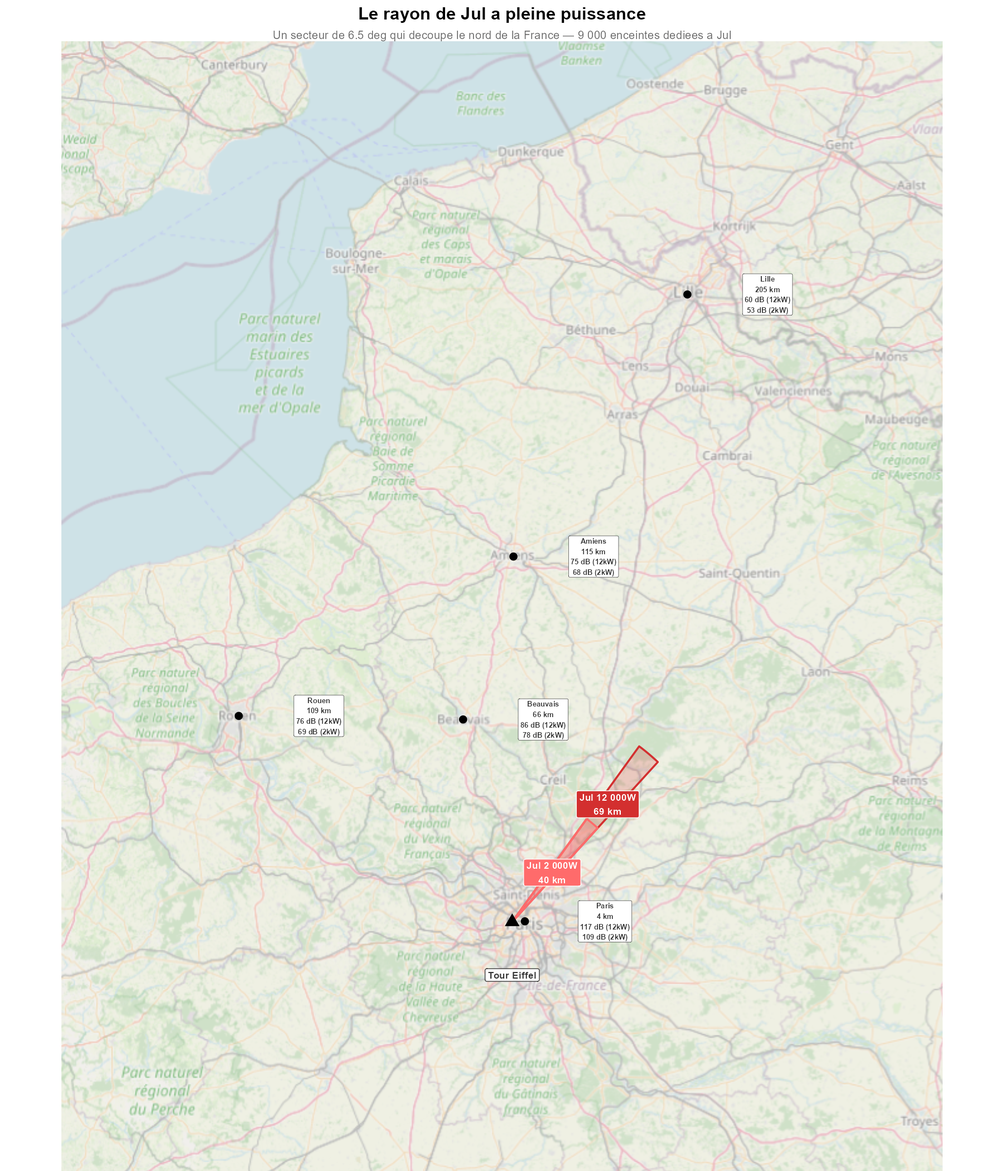
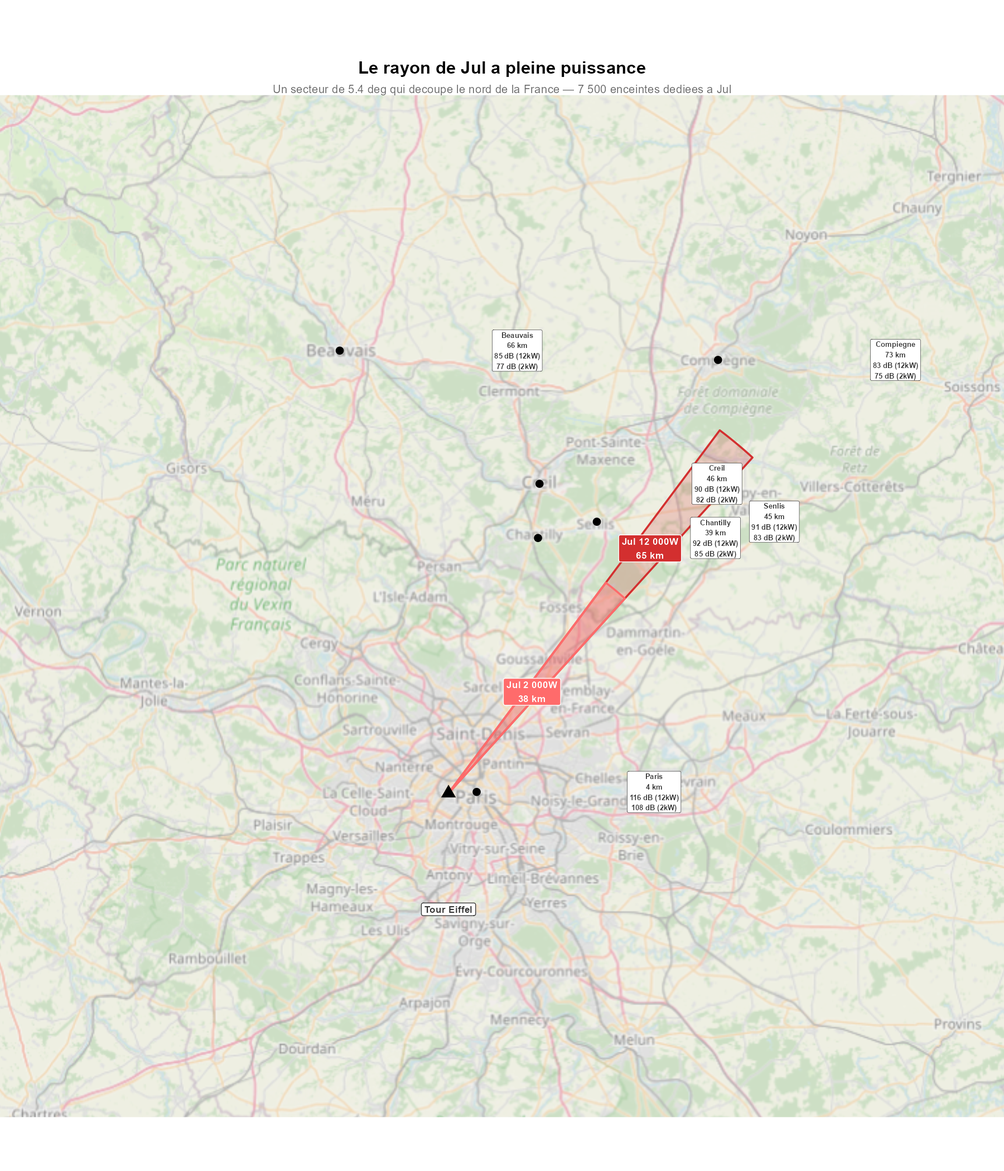
fix: update article content and metadata for "Et si on accrochait Spotify à la Tour Eiffel ?"; update image files and sitemap last modified date

diff --git a/docs/articles/spotify-tour-eiffel/index.html b/docs/articles/spotify-tour-eiffel/index.html
@@ -508,16 +508,16 @@ window.Quarto = {
 <h2 class="anchored" data-anchor-id="la-zone-de-jul">La zone de Jul</h2>
 <section id="lartiste-le-plus-écouté-de-france" class="level3">
 <h3 class="anchored" data-anchor-id="lartiste-le-plus-écouté-de-france">L’artiste le plus écouté de France</h3>
-<p>Jul est l’artiste le plus streamé en France depuis plusieurs années<a href="#fn14" class="footnote-ref" id="fnref14" role="doc-noteref"><sup>14</sup></a>, avec environ <strong>1,8%</strong> de l’ensemble des écoutes Spotify françaises. Ça peut paraître peu, mais rapporté à notre installation :</p>
+<p>Jul a dépassé les <strong>10 milliards de streams cumulés</strong> sur Spotify<a href="#fn14" class="footnote-ref" id="fnref14" role="doc-noteref"><sup>14</sup></a>, soit environ 1,5 à 2 milliards par an. Avec une durée moyenne de ~3 minutes par morceau, cela représente <strong>75 à 100 millions d’heures d’écoute par an</strong> — soit environ <strong>1,5%</strong> de l’écoute totale Spotify en France (4,4 milliards d’heures/an). Rapporté à notre installation :</p>
 <ul>
-<li><strong>9 000 enceintes</strong> dédiées exclusivement à Jul</li>
-<li><strong>18 000 watts</strong> de Jul pur</li>
+<li><strong>7 500 enceintes</strong> dédiées exclusivement à Jul</li>
+<li><strong>15 000 watts</strong> de Jul pur</li>
 <li>C’est l’équivalent d’un gros concert de rock… rien que pour un seul artiste</li>
 </ul>
 </section>
 <section id="le-sous-quadrant-jul" class="level3">
 <h3 class="anchored" data-anchor-id="le-sous-quadrant-jul">Le sous-quadrant Jul</h3>
-<p>Jul étant un rappeur, ses enceintes se trouvent dans le <strong>quadrant rap/hip-hop</strong> de la Tour. Il occupe environ 8% du secteur rap (1,8% / 22%), soit un mince sous-secteur angulaire.</p>
+<p>Jul étant un rappeur, ses enceintes se trouvent dans le <strong>quadrant rap/hip-hop</strong> de la Tour. Il occupe environ 7% du secteur rap (1,5% / 22%), soit un mince sous-secteur angulaire.</p>
 <p>Mais la musique de Jul est dominée par les <strong>basses profondes</strong> (808, sub-bass autour de 70 Hz), qui se propagent très loin grâce à la faible absorption atmosphérique. Résultat : la zone dangereuse de Jul seul (&gt; 85 dB) s’étend sur plusieurs centaines de mètres.</p>
 </section>
 <section id="la-carte-des-rues-de-jul" class="level3">
@@ -533,7 +533,7 @@ window.Quarto = {
 </section>
 <section id="jul-à-pleine-puissance-le-rayon-qui-découpe-la-france" class="level3">
 <h3 class="anchored" data-anchor-id="jul-à-pleine-puissance-le-rayon-qui-découpe-la-france">Jul à pleine puissance : le rayon qui découpe la France</h3>
-<p>Et si on remplaçait les enceintes Bluetooth par des enceintes de festival (12 000W) ? Jul passerait de 18 000 W à <strong>108 MW</strong>. Son petit secteur de 6,5° devient un rayon de Jul qui découpe le nord de la France :</p>
+<p>Et si on remplaçait les enceintes Bluetooth par des enceintes de festival (12 000W) ? Jul passerait de 15 000 W à <strong>90 MW</strong>. Son petit secteur de 5,4° devient un rayon de Jul qui découpe le nord de la France :</p>
 <table class="caption-top table">
 <thead>
 <tr class="header">
@@ -545,26 +545,26 @@ window.Quarto = {
 <tbody>
 <tr class="odd">
 <td>2W (actuel)</td>
-<td>18 kW</td>
-<td>~500 m</td>
+<td>15 kW</td>
+<td>~2 km</td>
 </tr>
 <tr class="even">
 <td>2 000W (concert)</td>
-<td>18 MW</td>
-<td>~40 km</td>
+<td>15 MW</td>
+<td>~38 km</td>
 </tr>
 <tr class="odd">
 <td>12 000W (festival)</td>
-<td>108 MW</td>
-<td>~89 km</td>
+<td>90 MW</td>
+<td>~65 km</td>
 </tr>
 </tbody>
 </table>
-<p>Même à 70 Hz, l’absorption atmosphérique finit par compter sur de longues distances (0,11 dB/km × 89 km ≈ 10 dB de perte supplémentaire). Mais le résultat reste spectaculaire : à 12 000W, ce mince rayon de 6,5° s’étend sur <strong>89 km</strong> au nord de Paris. Toute la frange sud de la Picardie serait exposée à des niveaux dangereux de Jul — et <em>uniquement</em> de Jul.&nbsp;Les habitants entendraient une basse 808 sourde et continue, 24 heures sur 24, sans savoir pourquoi.</p>
+<p>Même à 70 Hz, l’absorption atmosphérique finit par compter sur de longues distances (0,11 dB/km). Mais le résultat reste spectaculaire : à 12 000W, ce mince rayon de 5,4° s’étend sur <strong>65 km</strong> au nord de Paris. Toute la frange sud de la Picardie serait exposée à des niveaux dangereux de Jul — et <em>uniquement</em> de Jul.&nbsp;Les habitants entendraient une basse 808 sourde et continue, 24 heures sur 24, sans savoir pourquoi.</p>
 <div class="quarto-figure quarto-figure-center">
 <figure class="figure">
 <p><img src="carte_jul_france.png" class="img-fluid figure-img"></p>
-<figcaption>Le rayon de Jul à pleine puissance — un secteur de 6,5° qui découpe le nord de la France</figcaption>
+<figcaption>Le rayon de Jul à pleine puissance — un secteur de 5,4° qui découpe le nord de la France</figcaption>
 </figure>
 </div>
 <hr>
@@ -923,7 +923,7 @@ window.Quarto = {
 <li id="fn11"><p>ISO 9613-1:1993, <em>Acoustics — Attenuation of sound during propagation outdoors — Part 1: Calculation of the absorption of sound by the atmosphere</em>. Norme internationale de référence pour l’absorption atmosphérique, conditions standard 20°C, 50% HR.<a href="#fnref11" class="footnote-back" role="doc-backlink">↩</a></p></li>
 <li id="fn12"><p>Le seuil de perception vibrotactile des basses fréquences se situe autour de 100-110 dB SPL. Voir : Verrillo R.T., <em>Vibration Sensation in Humans</em>, Perception &amp; Psychophysics (1966) ; et la synthèse dans Russo F.A. et al., <em>Vibrotactile Sensitivity of the Foot</em>, Ear and Hearing (2020).<a href="#fnref12" class="footnote-back" role="doc-backlink">↩</a></p></li>
 <li id="fn13"><p>Les seuils de dommages structurels par ondes acoustiques proviennent de la littérature sur les bangs soniques et les vibrations industrielles. Voir : Bachmann H. et al., <em>Vibration Problems in Structures</em>, Birkhäuser (1995). Les valeurs exactes (140-170 dB) sont des ordres de grandeur issus de la littérature, pas des seuils normés.<a href="#fnref13" class="footnote-back" role="doc-backlink">↩</a></p></li>
-<li id="fn14"><p>Jul est régulièrement l’artiste le plus streamé en France sur Spotify depuis 2018 (Spotify Charts France, classements annuels SNEP). Sa part de 1,8% est une estimation basée sur ses volumes de streams rapportés au total national.<a href="#fnref14" class="footnote-back" role="doc-backlink">↩</a></p></li>
+<li id="fn14"><p>Jul a dépassé les 10 milliards de streams cumulés sur Spotify (visible sur sa page artiste). Avec une durée moyenne de ~3 min par morceau et un volume annuel estimé à 1,5-2 milliards de streams, cela représente 75-100 millions d’heures/an, soit ~1,5% du total français (4,4 milliards d’heures/an, source SNEP : 122 milliards de streams en 2024).<a href="#fnref14" class="footnote-back" role="doc-backlink">↩</a></p></li>
 <li id="fn15"><p>Un réacteur nucléaire français produit en moyenne 900 MW à 1 450 MW de puissance électrique. Source : EDF, <a href="https://www.edf.fr/groupe-edf/premier-electricien-mondial/nos-energies/energies-nucleaires/le-parc-nucleaire-edf">Le parc nucléaire EDF</a>.<a href="#fnref15" class="footnote-back" role="doc-backlink">↩</a></p></li>
 </ol>
 </section></div></main> <!-- /main -->

diff --git a/docs/articles/index.html b/docs/articles/index.html
@@ -212,7 +212,7 @@ window.Quarto = {
     </div>
 </div>
 <div class="list grid quarto-listing-cols-2">
[2 lines of base64/hex data omitted]
 <a href="../articles/spotify-tour-eiffel/index.html" class="quarto-grid-link">
 <div class="quarto-grid-item card h-100 card-left">
 <div class="card-body post-contents">

diff --git a/docs/index.html b/docs/index.html
@@ -212,7 +212,7 @@ window.Quarto = {
     </div>
 </div>
 <div class="list grid quarto-listing-cols-2">
[2 lines of base64/hex data omitted]
 <a href="./articles/spotify-tour-eiffel/index.html" class="quarto-grid-link">
 <div class="quarto-grid-item card h-100 card-left">
 <div class="card-body post-contents">
